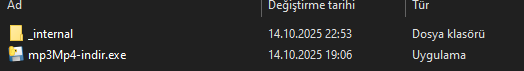
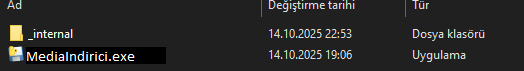
Kullanım klavuzu düzeltildi

Changed region(s): [[0.0305, 0.6479, 0.3359, 0.9014]]

diff --git a/kullanimKlavuzu/mediaIndir.html b/kullanimKlavuzu/mediaIndir.html
@@ -34,8 +34,10 @@
     <div>
         <h1 >MediaIndirici AUDIO/VIDEO <br> Araştırma ve Test Programı Kullanım Klavuzu</h1>
         <ul>
-            <li>mp3mp4-indir klasörünü açınız.<br><img src="../kullanimKlavuzu/img/klasor1.png" alt=""><br><img src="../kullanimKlavuzu/img/klasor2.png" alt=""></li>
-            <li>mp3mp4-indir.exe sekmesine çift tıkalayınız.<br><br><br><img src="../kullanimKlavuzu/img/yasalUyari.png" alt="" width="525px"></li>
+            <li>githubtan indirdiğiniz dosyayı açınız. </li>
+            <li>dist/MediaIndirici dosyasını başka bir klasöre taşıyınız. </li>
+            <li>MediaIndirici klasörünü açınız.<br><img src="../kullanimKlavuzu/img/klasor1.png" alt=""><br><img src="../kullanimKlavuzu/img/klasor2.png" alt=""></li>
+            <li>MediaIndirici.exe sekmesine çift tıkalayınız.<br><br><br><img src="../kullanimKlavuzu/img/yasalUyari.png" alt="" width="525px"></li>
             <li>Yasal uyarı kabul ediniz.<br><br><br><img src="../kullanimKlavuzu/img/urlGiris.png" alt="" width="525px"></li>
             <li>İndirmek istediğiniz Medya linkini URL satırına yazınız veya "ctrl+v" yaparak yapıştırınız</li>
             <li>Hangi dosyaya indireceğinizi seçiniz</li>
